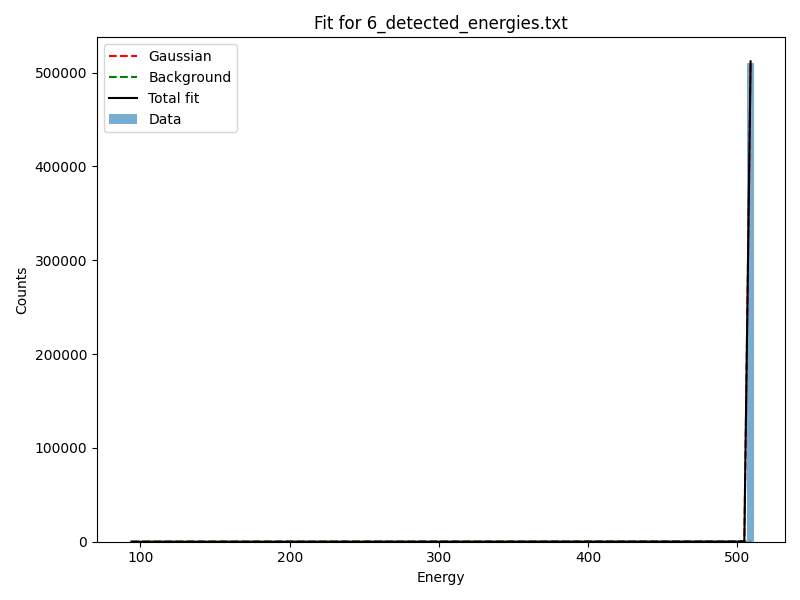
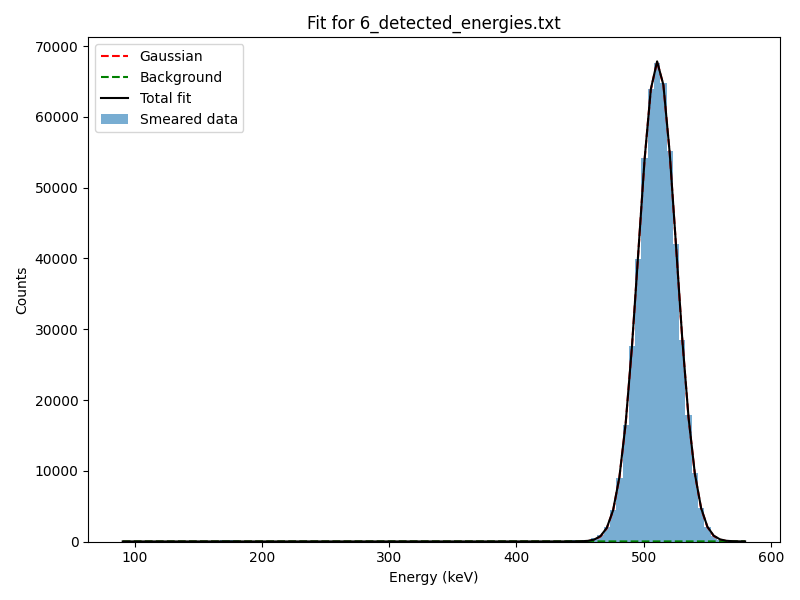
gaussian implementation for 0 deg analysis

diff --git a/Simulations/Python_simulation/codes/simulate_0deg_data_analysis.py b/Simulations/Python_simulation/codes/simulate_0deg_data_analysis.py
@@ -9,6 +9,11 @@ from tqdm import tqdm
 from iminuit import Minuit
 from iminuit.cost import LeastSquares
 
+# Detector resolution parameters
+RES_FWHM = 0.068  # Fractional FWHM (6.8%) at reference energy (511 keV)
+# Convert FWHM fraction to sigma fraction: sigma_frac = FWHM_frac / 2.355
+SIGMA_FRAC = RES_FWHM / 2.355
+
 
 def gaussian(x, amp, mean, sigma):
     """Gaussian function."""
@@ -26,7 +31,7 @@ def total_model(x, amp, mean, sigma, slope, intercept):
 
 
 def initial_guesses(x, y):
-    """Estimate initial fit parameters from data."""
+    """Estimate initial fit parameters from data histogram."""
     idx_sorted = np.argsort(y)
     n_low = max(int(0.1 * len(y)), 1)
     intercept = np.median(y[idx_sorted[:n_low]])
@@ -38,7 +43,7 @@ def initial_guesses(x, y):
 
 
 def compute_integrals(params, x_min, x_max):
-    """Compute Gaussian and background integrals over [x_min, x_max]."""
+    """Compute analytic integrals: Gaussian over (-inf,inf) and background over [x_min,x_max]."""
     amp, mean, sigma, slope, intercept = params
     int_gauss = amp * sigma * np.sqrt(2 * np.pi)
     int_bg = slope / 2 * (x_max**2 - x_min**2) + intercept * (x_max - x_min)
@@ -47,22 +52,28 @@ def compute_integrals(params, x_min, x_max):
 
 
 def fit_and_plot(file_path, plot_path, integrals_fh, n_bins=100):
-    """Load energy list (skip header), histogram, fit model, save plot, and log net integral."""
+    """Load, smear energies by detector resolution, histogram, fit, plot, and log integral."""
+    # Load raw energy values
     energies = np.loadtxt(file_path, skiprows=15)
-    counts, edges = np.histogram(energies, bins=n_bins)
+    # Apply Gaussian smearing: sigma ∝ energy
+    smeared = np.random.normal(loc=energies,
+                               scale=SIGMA_FRAC * energies)
+    # Histogram smeared energies
+    counts, edges = np.histogram(smeared, bins=n_bins)
     x = (edges[:-1] + edges[1:]) / 2
     y = counts
 
+    # Initial parameter estimates
     init = initial_guesses(x, y)
 
-    # Define errors for least squares (sqrt of counts, min 1)
+    # Define per-bin uncertainties for least squares
     errors = np.sqrt(y)
     errors[errors == 0] = 1.0
 
-    # Set up least-squares cost: requires x, y, yerr, and model
+    # Least-squares cost with model
     cost = LeastSquares(x, y, errors, total_model)
 
-    # Initialize and configure Minuit
+    # Fit with Minuit
     m = Minuit(cost,
                amp=init[0], mean=init[1], sigma=init[2],
                slope=init[3], intercept=init[4])
@@ -73,23 +84,25 @@ def fit_and_plot(file_path, plot_path, integrals_fh, n_bins=100):
     params = (m.values['amp'], m.values['mean'], m.values['sigma'],
               m.values['slope'], m.values['intercept'])
 
+    # Compute integrals
     x_min, x_max = x.min(), x.max()
     _, _, net_int = compute_integrals(params, x_min, x_max)
 
+    # Log net Gaussian integral
     filename = os.path.basename(file_path)
     integrals_fh.write(f"{filename}\t{net_int:.6f}\n")
 
-    # Plot
+    # Generate plot overlaying histogram and fits
     y_fit = total_model(x, *params)
     y_gauss = gaussian(x, params[0], params[1], params[2])
     y_bg = linear(x, params[3], params[4])
 
     plt.figure(figsize=(8, 6))
-    plt.bar(x, y, width=edges[1]-edges[0], alpha=0.6, label='Data')
+    plt.bar(x, y, width=edges[1] - edges[0], alpha=0.6, label='Smeared data')
     plt.plot(x, y_gauss, 'r--', label='Gaussian')
     plt.plot(x, y_bg, 'g--', label='Background')
     plt.plot(x, y_fit, 'k-', label='Total fit')
-    plt.xlabel('Energy')
+    plt.xlabel('Energy (keV)')
     plt.ylabel('Counts')
     plt.title(f"Fit for {filename}")
     plt.legend()
